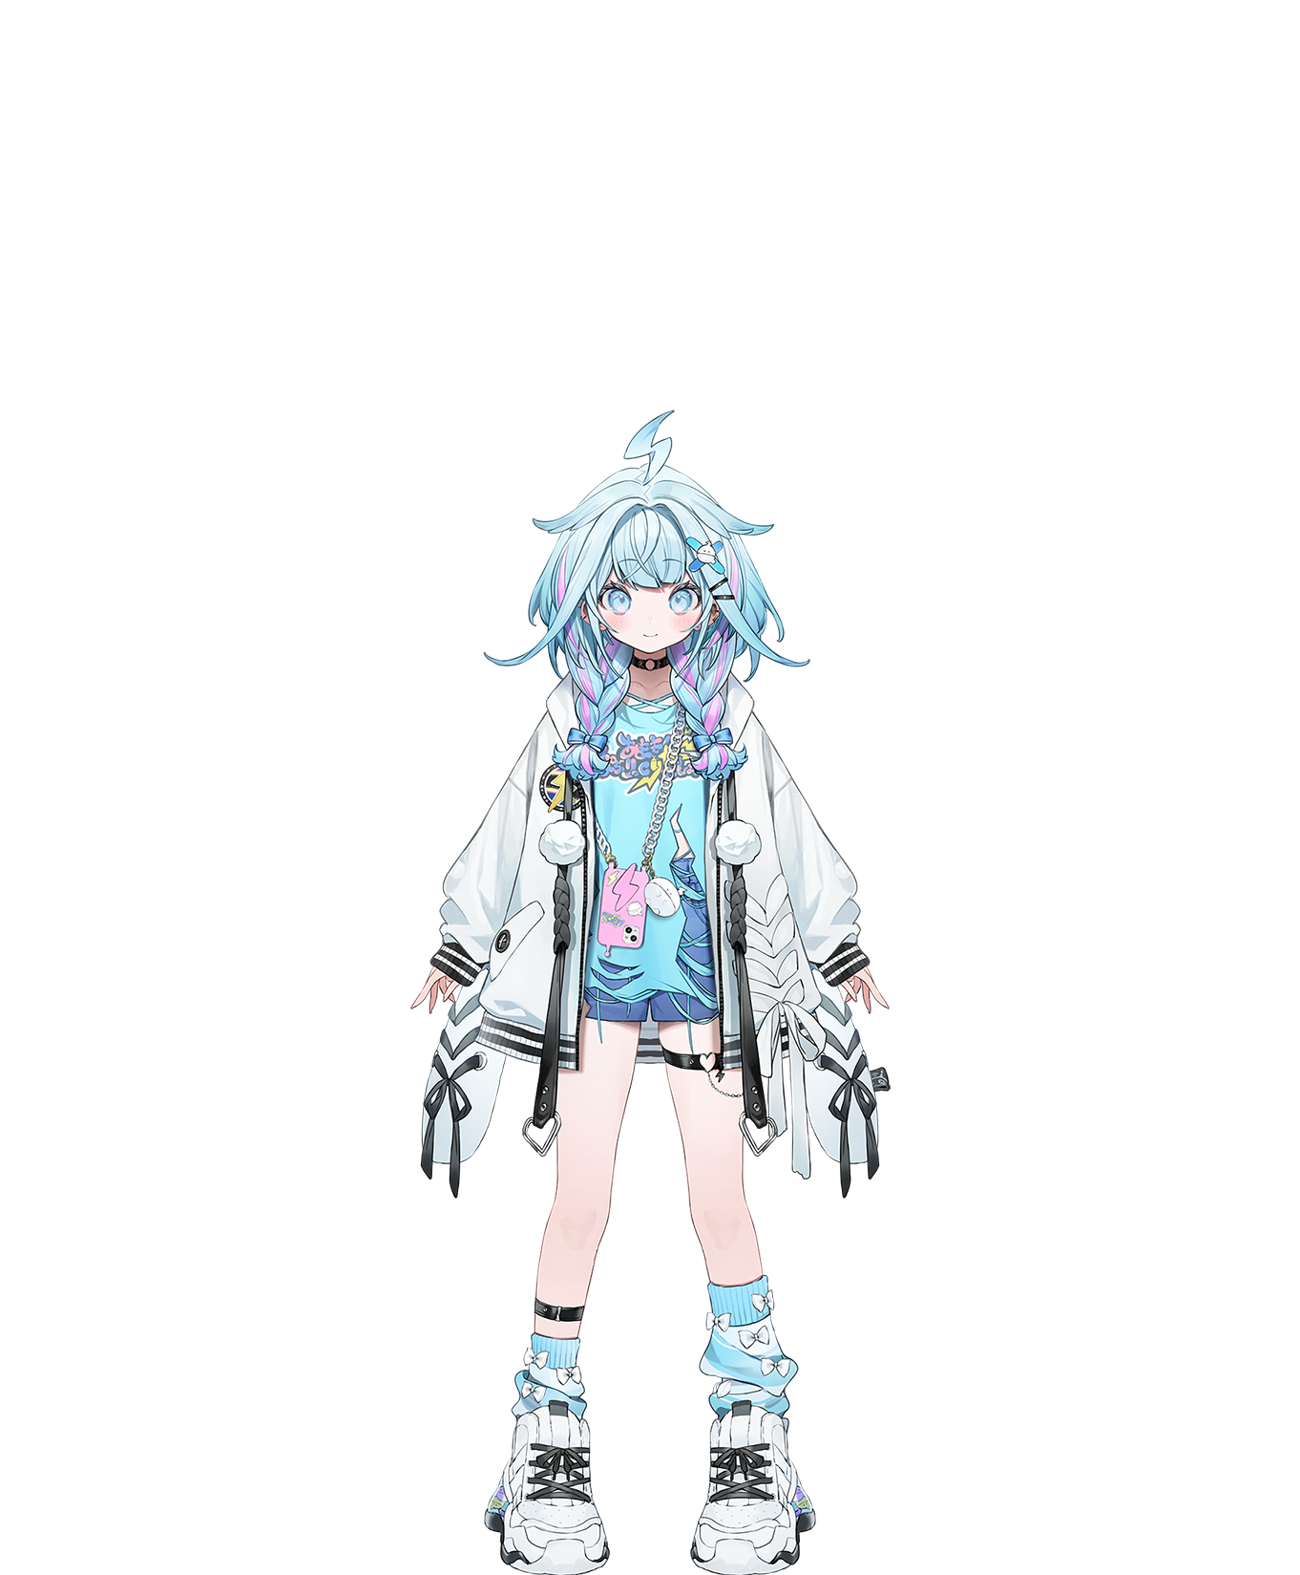
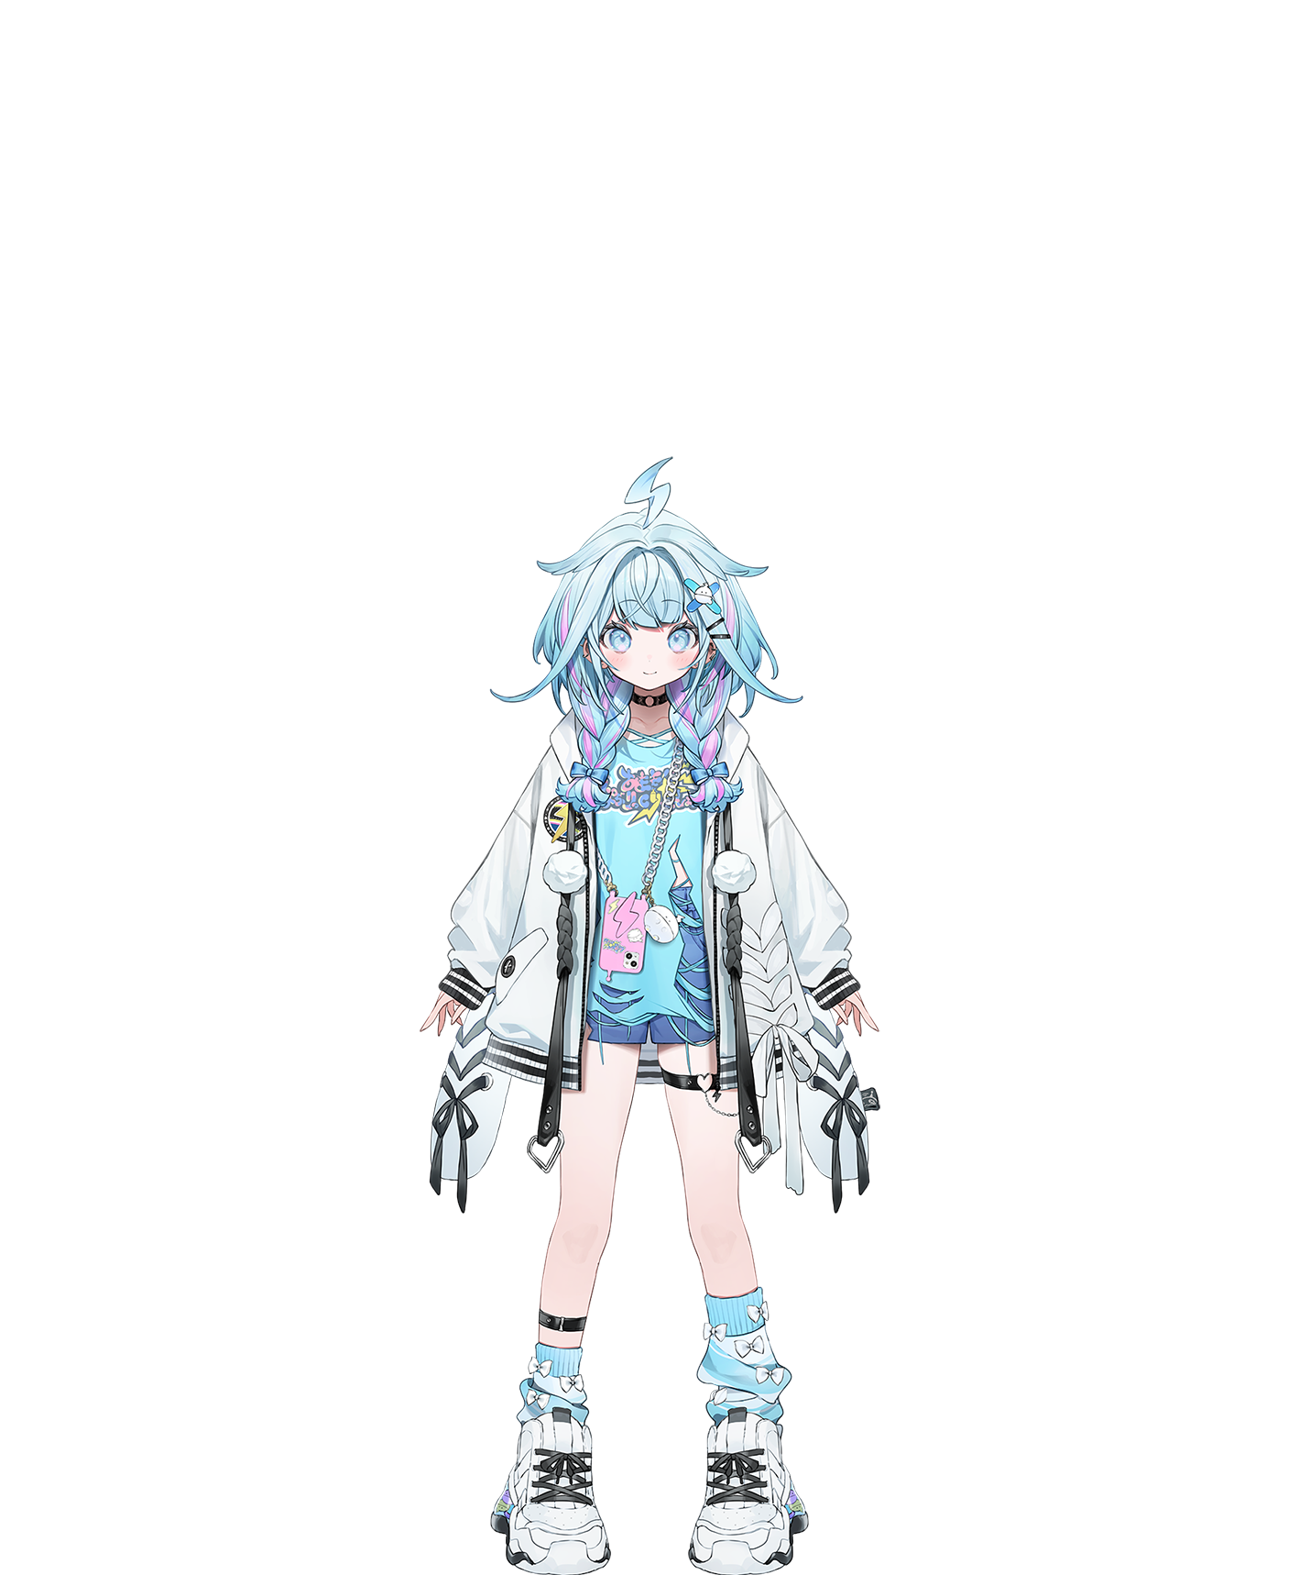
update su height

Changed region(s): [[0.3077, 0.2489, 0.6769, 1.0]]

diff --git a/images/script.py b/images/script.py
@@ -104,7 +104,7 @@ data = {
 	'Crimzon Ruze': 184,
 	'Isaki Riona': 160,
 	'Koganei Niko': 172,
-	'Mizumiya Su': 151,
+	'Mizumiya Su': 145,
 	'Rindo Chihaya': 168,
 	'Kikirara Vivi': 161,
 	# Nijisanji
